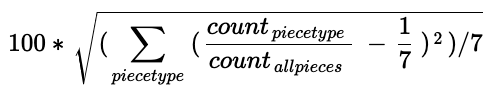
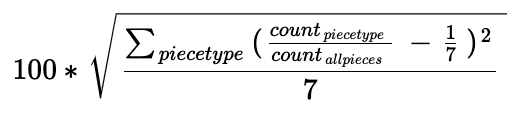
Fix up evenness formula

Changed region(s): [[0.0, 0.0938, 1.0, 0.875]]

diff --git a/docs/stats.md b/docs/stats.md
@@ -359,7 +359,7 @@ I thought having ratios would help having the 3 metrics in the same unit.
 
 The formula graphic was generated with this [latex equation renderer](http://atomurl.net/math/) from the following Latex fomula:
 ```
-100 * \sqrt{(\sum_{piece type} (\frac{count_{piece type}}{count_{allpieces}} - \frac{1}{7} )^2) / 7}
+100 * \sqrt{\frac{\sum_{piece type} (\frac{count_{piece type}}{count_{allpieces}} - \frac{1}{7} )^2}{7}}
 ```
 
 ### Javascript function
@@ -392,7 +392,7 @@ I typically do not read chat during a streaming session, messages are read to me
 
 Just like for the user color, each chatter is randomly assigned a voice that he/she keeps for the whole session.
 
-The voices are picked from the following selection of Google Voices. Do not complain about what voice you get!
+Voices are picked from the following selection of Google Voices. Do not complain about what voice you get!
 
 ```
 en-AU-Wavenet-A
@@ -418,5 +418,5 @@ en-US-Wavenet-E
 en-US-Wavenet-F
 ```
 
-I **can** permanently assign a voice to a twitch user, but you need to be a regular visitor for this to happen. So far only one twitch player has that priviledge (beside myself of course), [Puffy](https://www.twitch.tv/puffie_)!
+I **can** permanently assign a voice to a twitch user, but you need to be a regular visitor to the stream! So far only one twitch player has that priviledge (beside myself of course), [Puffy](https://www.twitch.tv/puffie_)!
 
